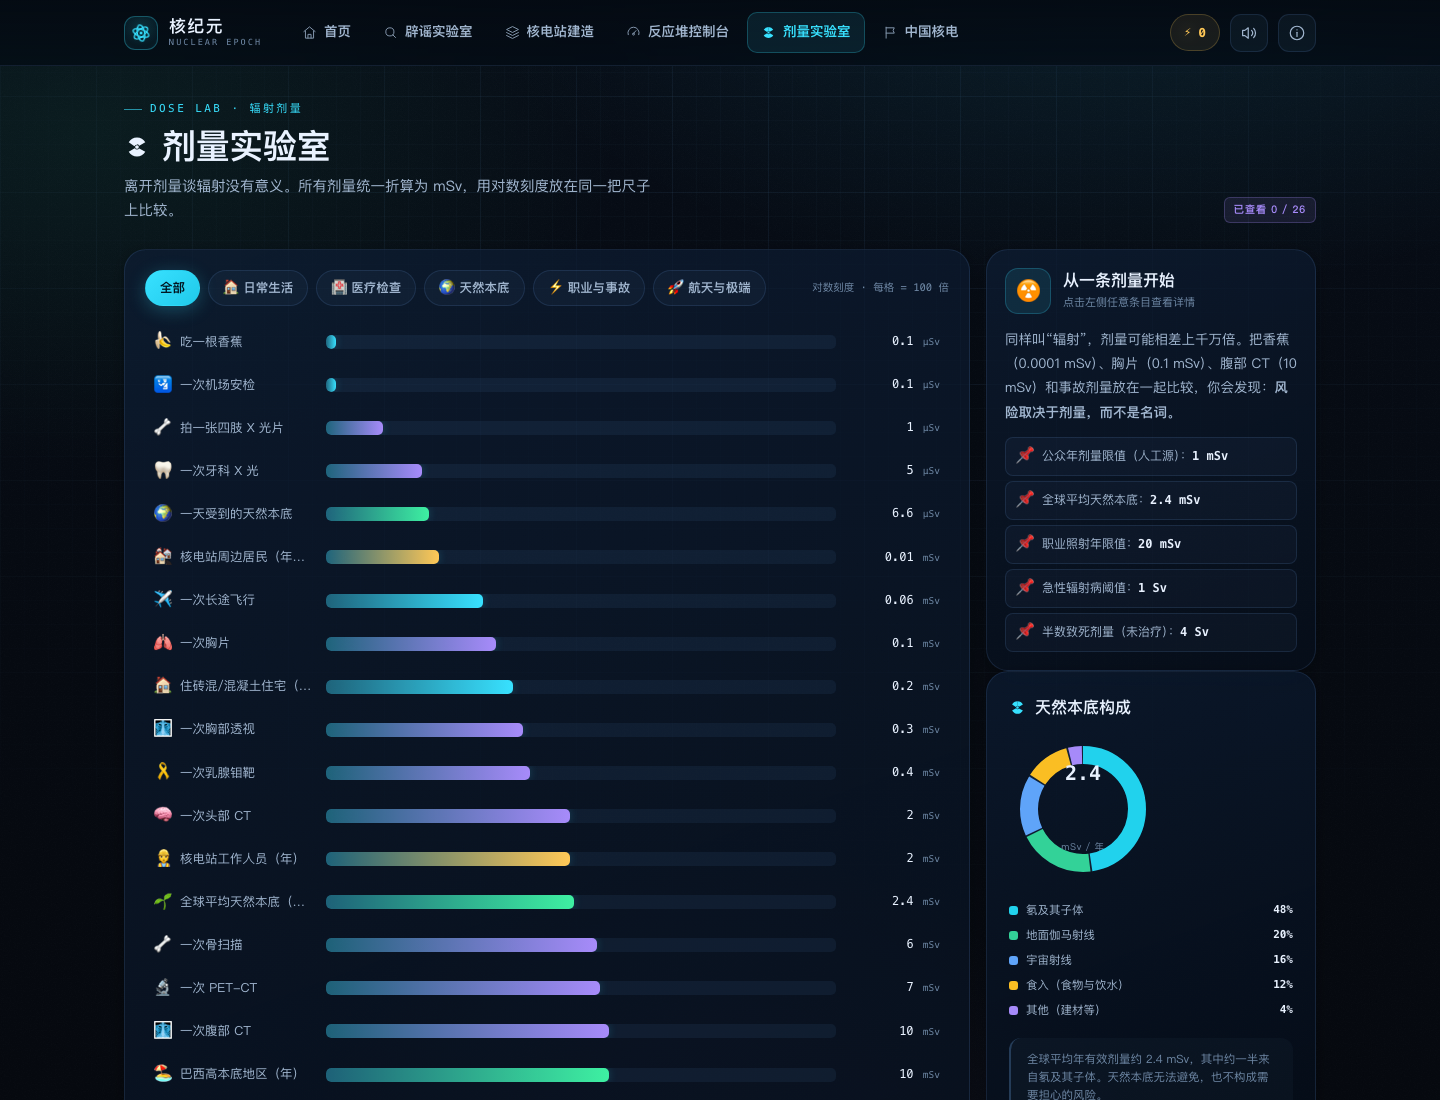
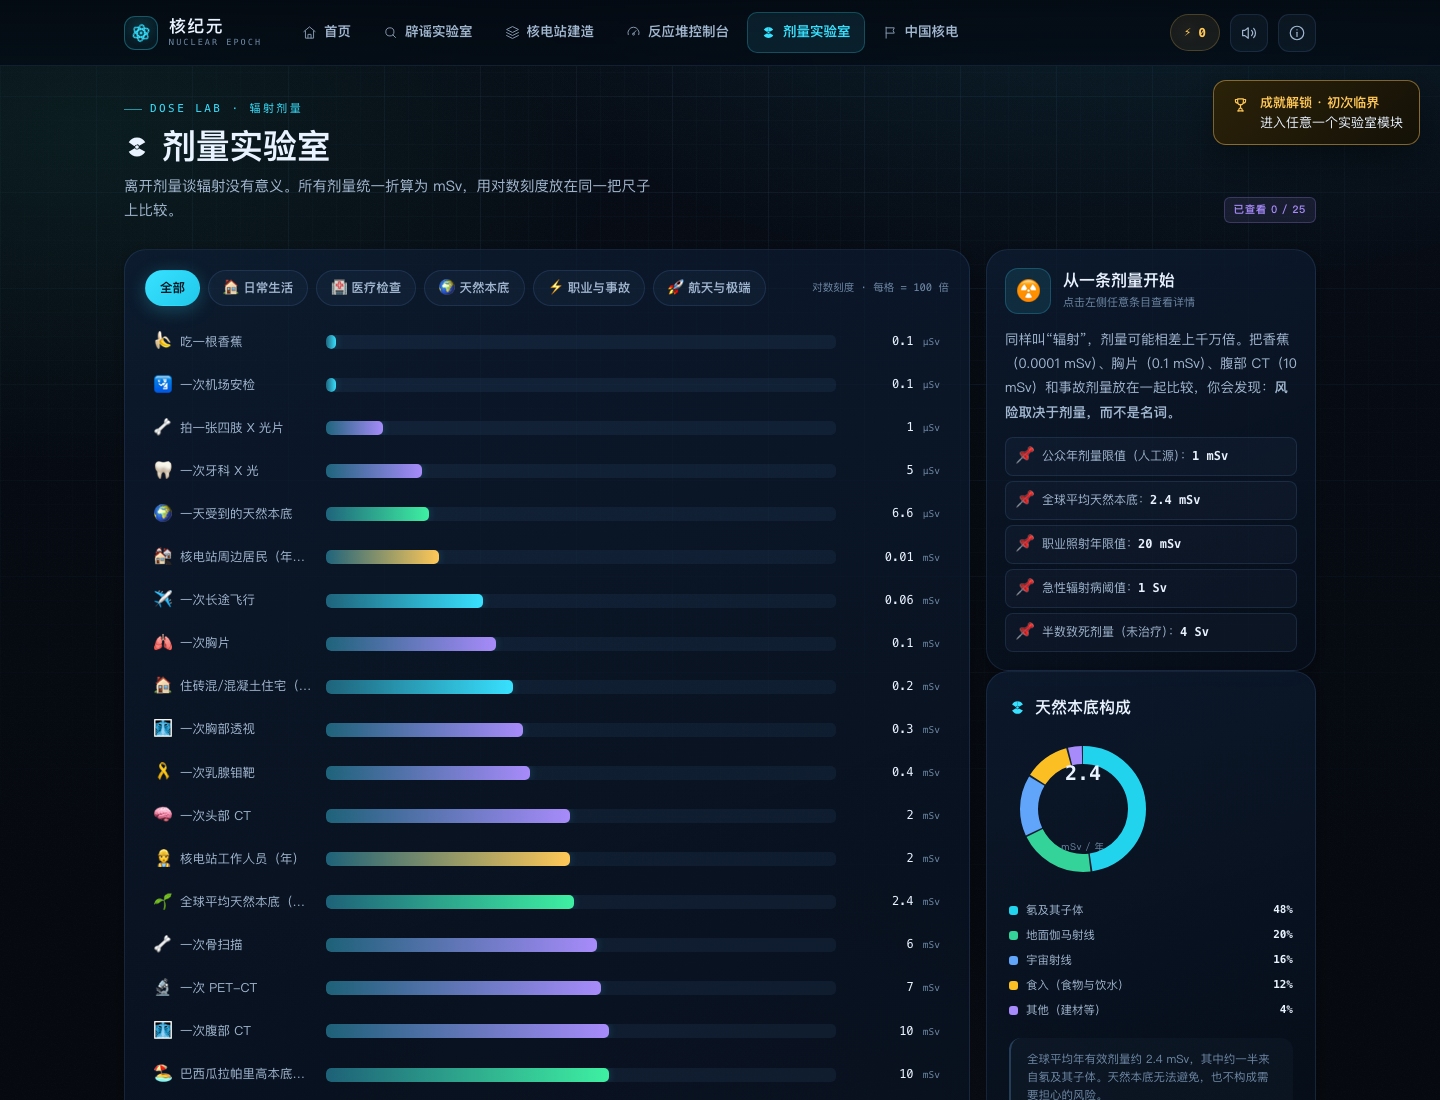
fix: 事实核查修订（福岛剂量标签、放疗剂量量类、CT换算、核电占比、中国核电时间线）
- 移除放疗 60 Gy 出 mSv 有效剂量标尺，新增“剂量类型”说明卡
- 福岛应急人员改为估算区间表述，避免“最高值”与急性/累积混淆
- 头 CT 本底换算 8→10 个月；香蕉 20 分钟；安检区分毫米波/背散射
- 谣言题库：核电占比 4.7%→4.6%、法国 65%→67%，修正钚浓缩与三回路排放措辞
- 安全壳/汽轮机/快堆/漳州表述修订；中国核电 updated=2026 + 十五五规划日期勘误
- 同步 README 计数与数据口径

Changed region(s): [[0.8438, 0.0618, 1.0, 0.1545], [0.1562, 0.9582, 0.2188, 0.9891]]

diff --git a/assets/js/data/rumors.js b/assets/js/data/rumors.js
@@ -161,12 +161,12 @@ window.NEG.data.rumors = [
     difficulty: 1,
     topic: "核电站=原子弹",
     text: "💥 核电站就是埋在身边的原子弹！一旦出事就会像原子弹一样爆炸，想想都后怕，太可怕了！",
-    truth: "核电用 3%–5% 低浓铀，链式反应受控，物理上不可能发生核爆炸",
+    truth: "主流压水堆用 3%–5% 低浓铀，链式反应受控，物理上不可能发生核爆炸",
     distractors: [
       "核电站装的是武器级高浓铀，随时可能像原子弹一样爆炸",
       "核电站一旦失控就会发生核爆炸，威力相当于广岛原子弹"
     ],
-    explain: "原子弹需要 90% 以上的武器级高浓铀或钚，而核电站燃料的铀-235 浓度通常只有 3%–5%，物理上无法形成核爆。反应堆的链式反应由控制棒和慢化剂精确调节，功率受控；即使发生严重事故，能量释放也主要来自蒸汽和氢气，而不是核爆炸。核电站真正的风险是放射性物质外泄，靠多重屏障和纵深防御来防范。",
+    explain: "原子弹需要 90% 以上的武器级高浓铀，或武器级钚；而主流压水堆核燃料的铀-235 浓度通常只有 3%–5%（不同堆型略有差异），物理上无法形成核爆。反应堆的链式反应由控制棒和慢化剂精确调节，功率受控；即使发生严重事故，能量释放也主要来自蒸汽和氢气，而不是核爆炸。核电站真正的风险是放射性物质外泄，靠多重屏障和纵深防御来防范。",
     fact: { label: "核电站燃料铀-235 浓度", value: "约 3%–5%" },
     sources: [
       { name: "国际原子能机构（IAEA）《基本安全原则》", url: "https://www.iaea.org/" },
@@ -184,7 +184,7 @@ window.NEG.data.rumors = [
       "三回路水会直接流经堆芯，带有强放射性，会污染自来水",
       "核电站会把一回路里的放射性水偷偷排放到自来水管道中"
     ],
-    explain: "压水堆采用三回路设计：一回路水带放射性但完全封闭，二回路水只与蒸汽发生器换热、不带放射性，三回路水用于冷却冷凝器，是唯一排向环境的部分，从未接触放射性物质。核电站周边居民的自来水由市政水厂供应，水源和执行标准与核电站无关，并接受常规放射性监测。所谓“怪味”多来自余氯或管道，与辐射无关。",
+    explain: "压水堆采用三回路设计：一回路水带放射性但完全封闭，二回路水只与蒸汽发生器换热、不带放射性，三回路水用于冷却冷凝器，是唯一大量排向环境的冷却水回路，正常运行时与放射性系统完全隔离。核电站另有经过处理和监测的少量气载、液态流出物，排放量远低于限值。核电站周边居民的自来水由市政水厂供应，水源和执行标准与核电站无关，并接受常规放射性监测。所谓“怪味”多来自余氯或管道，与辐射无关。",
     fact: { label: "压水堆回路数量", value: "3 个独立回路" },
     sources: [
       { name: "国家核安全局《压水堆核电厂》科普资料", url: "https://nnsa.mee.gov.cn/" },
@@ -530,8 +530,8 @@ window.NEG.data.rumors = [
       "中国核电的发电量已经超过全国一半，占比稳居世界第一",
       "中国核电占比已经超过法国，成为全球核电占比最高的国家"
     ],
-    explain: "据中国核能行业协会数据，我国核电装机容量约占全国电力总装机的不到 2%，发电量约占全国的 4.7%，远低于法国（约 65%）、美国（约 18%）等核电大国。我国在运和在建核电总规模已居世界第一，但发电量占比并不高。发展核电的主要目的是优化能源结构、减少碳排放，而不是“核电站太多”。",
-    fact: { label: "我国核电发电量占比", value: "约 4.7%" },
+    explain: "据中国核能行业协会数据，我国核电装机容量约占全国电力总装机的不到 2%，发电量约占全国的 4.6%，远低于法国（约 67%）、美国（约 18%）等核电大国。我国在运和在建核电总规模已居世界第一，但发电量占比并不高。发展核电的主要目的是优化能源结构、减少碳排放，而不是“核电站太多”。",
+    fact: { label: "我国核电发电量占比", value: "约 4.6%" },
     sources: [
       { name: "中国核能行业协会《中国核能发展报告》", url: "https://www.china-nea.cn/" },
       { name: "国家能源局" }

diff --git a/assets/js/data/doses.js b/assets/js/data/doses.js
@@ -31,7 +31,7 @@ window.NEG.data.doses = [
     value: 0.0001,
     unit: "mSv",
     icon: "🍌",
-    note: "香蕉富含钾-40，约 0.1 微西弗，相当于几分钟天然本底。"
+    note: "香蕉富含钾-40，约 0.1 微西弗，约相当于 20 分钟天然本底。"
   },
   {
     id: "airport-scan",
@@ -40,7 +40,7 @@ window.NEG.data.doses = [
     value: 0.0001,
     unit: "mSv",
     icon: "🛂",
-    note: "毫米波或背散射安检约 0.1 微西弗，剂量极低。"
+    note: "背散射 X 射线安检约 0.1 微西弗；毫米波安检属于非电离辐射，不产生电离剂量。"
   },
   {
     id: "flight-long",
@@ -114,7 +114,7 @@ window.NEG.data.doses = [
     value: 2,
     unit: "mSv",
     icon: "🧠",
-    note: "约 2 毫西弗，相当于约 8 个月的天然本底。"
+    note: "约 2 毫西弗，约相当于 10 个月的天然本底（按 2.4 毫西弗/年）。"
   },
   {
     id: "abdomen-ct",
@@ -152,16 +152,6 @@ window.NEG.data.doses = [
     icon: "🦴",
     note: "锝-99m 标记药物，约 4–6 毫西弗。"
   },
-  {
-    id: "radiotherapy",
-    name: "癌症放疗总量（分次累计）",
-    group: "medical",
-    value: 60000,
-    unit: "mSv",
-    icon: "🎯",
-    note: "约 60 戈瑞的局部靶区剂量，分 20–30 次照射累加；不是全身急性受照，不可与单次全身剂量直接比较。"
-  },
-
   /* ===== 天然本底 ===== */
   {
     id: "background-day",
@@ -183,12 +173,12 @@ window.NEG.data.doses = [
   },
   {
     id: "brazil-high-background",
-    name: "巴西高本底地区（年）",
+    name: "巴西瓜拉帕里高本底（局部，年）",
     group: "nature",
     value: 10,
     unit: "mSv",
     icon: "🏖",
-    note: "瓜拉帕里等富钍海滨地区，约为全球平均的 4 倍，居民健康未见明确异常。"
+    note: "部分富钍海滨区域可达约 5–10 毫西弗/年，属局部高值；当地居民健康未见明确异常。"
   },
   {
     id: "ramsar-high-background",
@@ -221,21 +211,21 @@ window.NEG.data.doses = [
   },
   {
     id: "fukushima-worker",
-    name: "福岛事故现场工人（最高）",
+    name: "福岛事故应急作业人员（估算）",
     group: "work",
     value: 170,
     unit: "mSv",
     icon: "⚠",
-    note: "应急作业中记录到的最高有效剂量约 170 毫西弗，属急性应急照射。"
+    note: "2011 年 3 月参与高放废水作业的部分人员估算有效剂量约 170–180 毫西弗；后续评估中个别应急人员累积剂量更高，均属应急照射，不属于正常运行工况。"
   },
   {
     id: "chernobyl-firefighter",
-    name: "切尔诺贝利消防员（最高）",
+    name: "切尔诺贝利消防员（首批典型）",
     group: "work",
     value: 10000,
     unit: "mSv",
     icon: "☢",
-    note: "首批消防员受到约 10 戈瑞急性照射，部分人员在数周内死亡。"
+    note: "首批消防员受到约 2–16 戈瑞急性照射，10 戈瑞为代表性量级；部分人员在数周内死亡。"
   },
 
   /* ===== 航天与极端 ===== */

diff --git a/assets/js/data/china.js b/assets/js/data/china.js
@@ -14,8 +14,8 @@ window.NEG.data = window.NEG.data || {};
 
 window.NEG.data.china = {
   /* 数据基准年：2025 年底（发电量占比为 2025 年全年） */
-  updated: "2025",
-  updatedNote: "数据截至 2025 年底，依据国家能源局《中国核电发展报告（2026）》",
+  updated: "2026",
+  updatedNote: "统计数字截至 2025 年底（国家能源局《中国核电发展报告（2026）》）；大事记更新至 2026 年 8 月",
 
   /* ---------- 四个核心数字 ---------- */
   stats: [
@@ -133,9 +133,9 @@ window.NEG.data.china = {
     },
     {
       year: 2024,
-      date: "2024-11",
-      title: "国和一号示范工程并网",
-      desc: "自主三代核电 CAP1400（国和一号）示范工程首台机组首次并网发电，示范工程全面建成。",
+      date: "2024",
+      title: "国和一号示范工程首台机组并网",
+      desc: "自主三代核电 CAP1400（国和一号）示范工程首台机组首次并网发电，标志着示范工程进入投产阶段。",
       tag: "三代"
     },
     {
@@ -175,9 +175,9 @@ window.NEG.data.china = {
     },
     {
       year: 2026,
-      date: "2026-03",
-      title: "“十五五”核电目标明确",
-      desc: "“十五五”规划提出 2030 年核电装机达到 1.1 亿千瓦左右，核电进入规模化、批量化发展新阶段。",
+      date: "2026-08",
+      title: "《新型电力系统建设“十五五”规划》发布",
+      desc: "规划提出 2030 年核电装机达到 1.1 亿千瓦左右，核电进入规模化、批量化发展新阶段。",
       tag: "规划"
     }
   ],
@@ -229,7 +229,7 @@ window.NEG.data.china = {
       type: "四代钠冷快堆",
       power: "600 MWe",
       bullets: [
-        "中国首座大型商用钠冷快堆示范工程，位于福建霞浦",
+        "中国示范快堆（600 MWe 级），位于福建霞浦",
         "快中子谱可增殖核燃料，大幅提高铀资源利用率",
         "是闭式核燃料循环的关键一环",
         "2023 年 12 月并网调试，计划 2026 年投入商业运行"
@@ -348,7 +348,7 @@ window.NEG.data.china = {
       name: "漳州核电站",
       province: "福建",
       units: 1,
-      note: "1 号机组 2025 年 1 月投入商运，为华龙一号批量化建设首台；2 号机组在建。"
+      note: "1 号机组 2025 年 1 月投入商运，为华龙一号批量化建设首台；2 号机组于 2026 年初投入商业运行。"
     },
     {
       name: "台山核电站",

diff --git a/assets/js/modes/dose.js b/assets/js/modes/dose.js
@@ -30,9 +30,13 @@
     accent: '#a78bfa',
     blurb: '把香蕉、胸片、CT、职业限值和事故放在同一把对数标尺上。',
     progress(s) {
-      return Math.min(1, (s.modes.dose.viewed || []).length / 26);
+      const total = (NEG.data.doses || []).length || 25;
+      return Math.min(1, (s.modes.dose.viewed || []).length / total);
     },
-    isComplete(s) { return (s.modes.dose.viewed || []).length >= 26; },
+    isComplete(s) {
+      const total = (NEG.data.doses || []).length;
+      return total > 0 && (s.modes.dose.viewed || []).length >= total;
+    },
 
     render(root, ctx) {
       const { store, data, ui, audio, util: U } = ctx;
@@ -101,6 +105,10 @@
               '<div class="divider"></div>' +
               '<p class="explain-text"><strong class="text-cyan">非电离辐射</strong>：' + U.esc(intro.nonIonizing || '') + '</p>' +
               '<p class="explain-text" style="margin-top:8px"><strong class="text-amber">电离辐射</strong>：' + U.esc(intro.ionizing || '') + '</p>' +
+            '</section>' +
+            '<section class="panel panel-pad anim-fade-up d3">' +
+              '<div class="panel-head"><h3>' + NEG.icon('info') + '为什么放疗剂量不在图里？</h3></div>' +
+              '<p class="explain-text">横轴比较的是<strong>全身有效剂量（mSv）</strong>。癌症放疗的 60 Gy 是<strong>局部靶区吸收剂量</strong>（戈瑞），只作用于肿瘤区域、分次照射，不能换算成全身有效剂量，因此不混入同一把尺子。剂量类型和受照范围，与剂量数值同样重要。</p>' +
             '</section>' +
             '<section class="panel panel-pad anim-fade-up d3">' +
               '<div class="panel-head"><h3>' + NEG.icon('target') + '剂量换算器</h3></div>' +

diff --git a/assets/js/data/reactor.js b/assets/js/data/reactor.js
@@ -74,7 +74,7 @@ window.NEG.data.plant = {
       order: 7,
       loop: 0,
       role: '把整个核岛罩在里厚混凝土与钢衬里中，即使发生严重事故也能把放射性物质留在内部，是最后一道实体屏障。',
-      detail: '“纵深防御”由燃料包壳、压力容器、安全壳三道实体屏障组成。现代安全壳还可承受地震、海啸、大型飞机撞击等外部威胁。',
+      detail: '“纵深防御”由燃料包壳、压力容器、安全壳三道实体屏障组成。现代安全壳按设计基准地震、外部冲击与大型商用飞机撞击等工况设防；海啸、洪水等外部事件则通过厂址标高、防波堤等工程措施应对。',
       fact: '壁厚可达 1–2 米，设计可承受内部超压与外部冲击'
     },
     {
@@ -84,8 +84,8 @@ window.NEG.data.plant = {
       order: 8,
       loop: 2,
       role: '二回路的高压蒸汽推动汽轮机叶片高速旋转，把蒸汽的热能变成机械能。它只接触不带放射性的二回路蒸汽。',
-      detail: '大型核电汽轮机转速通常为 1500 转/分，与常规火电汽轮机相似，但蒸汽参数更低、流量更大。',
-      fact: '核电机组转速约 1500 r/min，蒸汽只来自二回路'
+      detail: '大型核电半转速汽轮机多为 1500 转/分（常规火电常见 3000 转/分）；两者做功原理相同，但核电蒸汽参数更低、流量更大。',
+      fact: '半转速机组约 1500 r/min，蒸汽只来自二回路'
     },
     {
       id: 'generator',

diff --git a/README.md b/README.md
@@ -60,8 +60,8 @@
 | 🔍 **辟谣实验室** | 读一条谣言，从 3 张卡片中拖出 / 点出唯一正确的科普结论 | 电离 vs 非电离辐射、剂量与风险、核电站三回路、核废料、核医学、核聚变 |
 | 🏗 **核电站建造** | 从堆芯到电网，按顺序拼装 12 个部件；顺序错误会“返工” | 压水堆结构、一 / 二 / 三回路、纵深防御、安全壳 |
 | ⚡ **反应堆控制台** | 调节控制棒、主泵与汽轮机负荷，完成 12 小时并网发电班次 | 反应性、临界、负温度系数、氙-135 碘坑、停堆余热、保护系统 |
-| 📊 **剂量实验室** | 在对数标尺上对比 26 种剂量，查看换算与等价值 | 天然本底、医疗剂量、剂量限值、Bq / Gy / Sv |
-| 🇨🇳 **中国核电** | 滚动浏览 19 个里程碑、6 种堆型与 15 个核电基地 | 秦山、大亚湾、华龙一号、玲龙一号、高温气冷堆、EAST |
+| 📊 **剂量实验室** | 在对数标尺上对比 25 种剂量，查看换算与等价值 | 天然本底、医疗剂量、剂量限值、Bq / Gy / Sv |
+| 🇨🇳 **中国核电** | 滚动浏览 19 个里程碑、6 种代表性反应堆 / 装置与 15 个核电站条目 | 秦山、大亚湾、华龙一号、玲龙一号、高温气冷堆、EAST |
 
 ### 🔍 辟谣实验室
 
@@ -97,16 +97,17 @@
 
 ### 📊 剂量实验室
 
-- **26 条剂量数据**，覆盖日常生活、医疗检查、天然本底、职业与事故、航天与极端五类，统一折算为 mSv。
-- **对数刻度**横向对比：每格 100 倍，从 0.1 µSv（一根香蕉）到 60 Sv（癌症放疗分次累计局部剂量）。
+- **25 条剂量数据**，覆盖日常生活、医疗检查、天然本底、职业与事故、航天与极端五类，统一折算为 mSv。
+- **对数刻度**横向对比：每格 100 倍，从 0.1 µSv（一根香蕉）到 10 Sv（切尔诺贝利首批消防员的急性照射量级）。
+- **量类区分**：癌症放疗的 60 Gy 是局部靶区吸收剂量，不能换算为全身有效剂量，页面单独说明、不混入 mSv 标尺。
 - 点击任意条目查看量级说明、与香蕉 / 胸片 / 年本底的倍数关系、占公众年剂量限值的比例。
 - 天然本底构成环形图（UNSCEAR 口径，氡及子体约 48%）、Bq / Gy / Sv 单位小词典、µSv ↔ mSv ↔ Sv 换算器。
 
 ### 🇨🇳 中国核电
 
 - **19 个里程碑**：1991 秦山一期并网 → 1994 大亚湾商运 → 2015 华龙一号首堆开工 → 2021 海外首堆投运 → 2023 石岛湾高温气冷堆商运 → 2025 EAST 1 亿 ℃ / 1066 秒……
-- **6 种堆型**：华龙一号 HPR1000、玲龙一号 ACP100、高温气冷堆 HTR-PM、快堆 CFR-600、聚变装置等。
-- **15 个核电基地**：秦山、大亚湾、岭澳、田湾、福清、红沿河、宁德、阳江、防城港、昌江、海阳、石岛湾、三门、漳州等。
+- **6 种代表性反应堆 / 装置**：华龙一号 HPR1000、玲龙一号 ACP100、高温气冷堆 HTR-PM、示范快堆 CFR-600、国和一号 CAP1400、EAST 聚变装置。
+- **15 个核电站条目**：秦山、大亚湾、岭澳、田湾、福清、红沿河、宁德、阳江、防城港、昌江、海阳、石岛湾、三门、漳州等。
 - 时间线随滚动逐条记录“已浏览”，集齐后解锁「核电通」成就。
 
 ---
@@ -182,7 +183,7 @@ assets/
     ├── svg.js                  # 压水堆剖面 / 堆芯 SVG 生成
     ├── data/
     │   ├── rumors.js           # 32 条辟谣题库
-    │   ├── doses.js            # 26 条剂量 + 参考线 + 本底构成 + 单位
+    │   ├── doses.js            # 25 条剂量 + 参考线 + 本底构成 + 单位
     │   ├── china.js            # 中国核电数据
     │   └── reactor.js          # 12 个部件 + 三回路 + 控制台任务参数
     └── modes/
@@ -242,7 +243,7 @@ assets/
 - **中国核能行业协会**《中国核能发展报告》《中国核电发展报告》
 - 中核集团、中广核等公开资料
 
-剂量数值为公开资料中的**典型量级**，不同来源、不同个体、不同场景可能存在差异；中国核电数据截至文中所标注年份（数据集中为 `updated` 字段，当前为 2025 年底口径）。
+剂量数值为公开资料中的**典型量级**，不同来源、不同个体、不同场景可能存在差异；中国核电统计数字截至 2025 年底，大事记更新至 2026 年 8 月（数据集中 `updated` 与 `updatedNote` 字段）。
 
 ---
 
@@ -341,7 +342,7 @@ NEG.registerMode({
 - 辟谣：点击 / 拖拽 / 键盘作答、结果面板、来源显示、下一题、分类筛选、结算；
 - 建造：12 个部件按序拼装、干扰卡扣分、回路贯通动画、回路说明弹窗、完成结算；
 - 控制台：提棒启动、功率跟随、SCRAM / 停堆复位、×4 倍速完整 12 小时班次（成功路径：5567 MWh / 安全 100 / 得分 240 / 解锁「金牌运行员」「稳如磐石」）；
-- 剂量：26 条数据排序与对数条、详情、换算器、分类筛选、环形图；
+- 剂量：25 条数据排序与对数条、详情、换算器、分类筛选、环形图；
 - 中国核电：19 条时间线滚动记录、数据卡、堆型与基地；
 - 存档刷新后保留；`file://` 直接打开可运行；移动端 390×844 无横向溢出。
 
